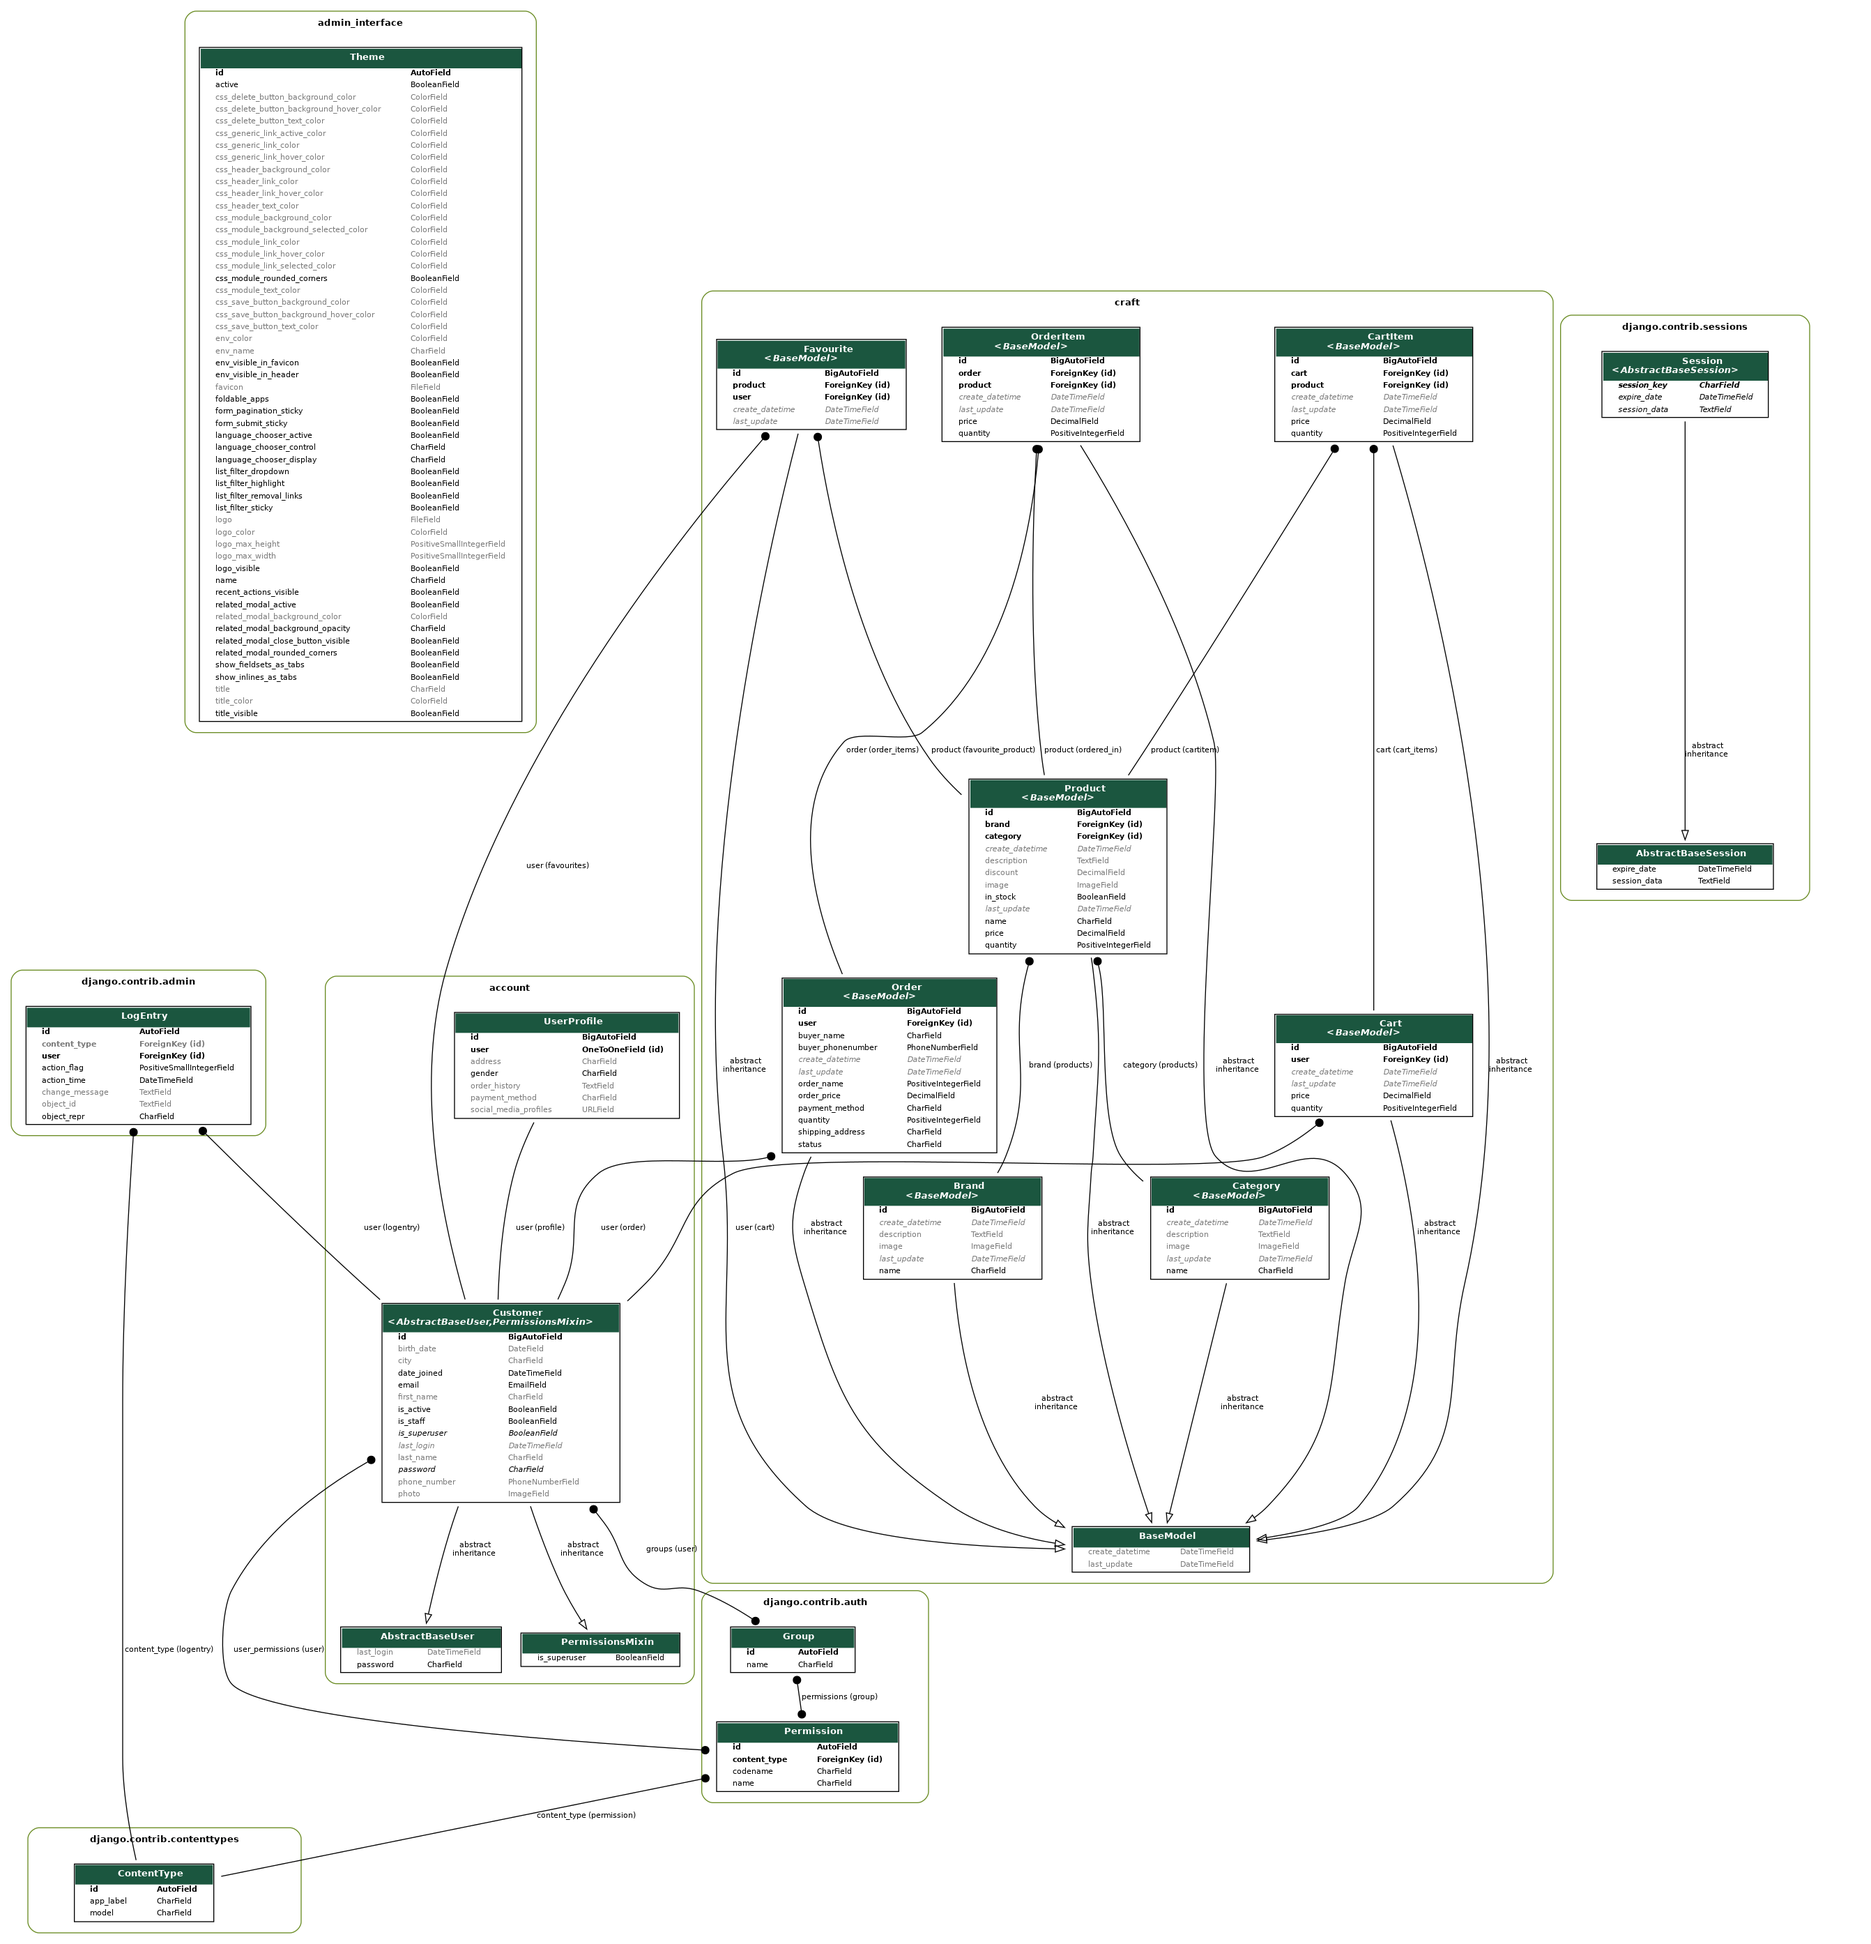
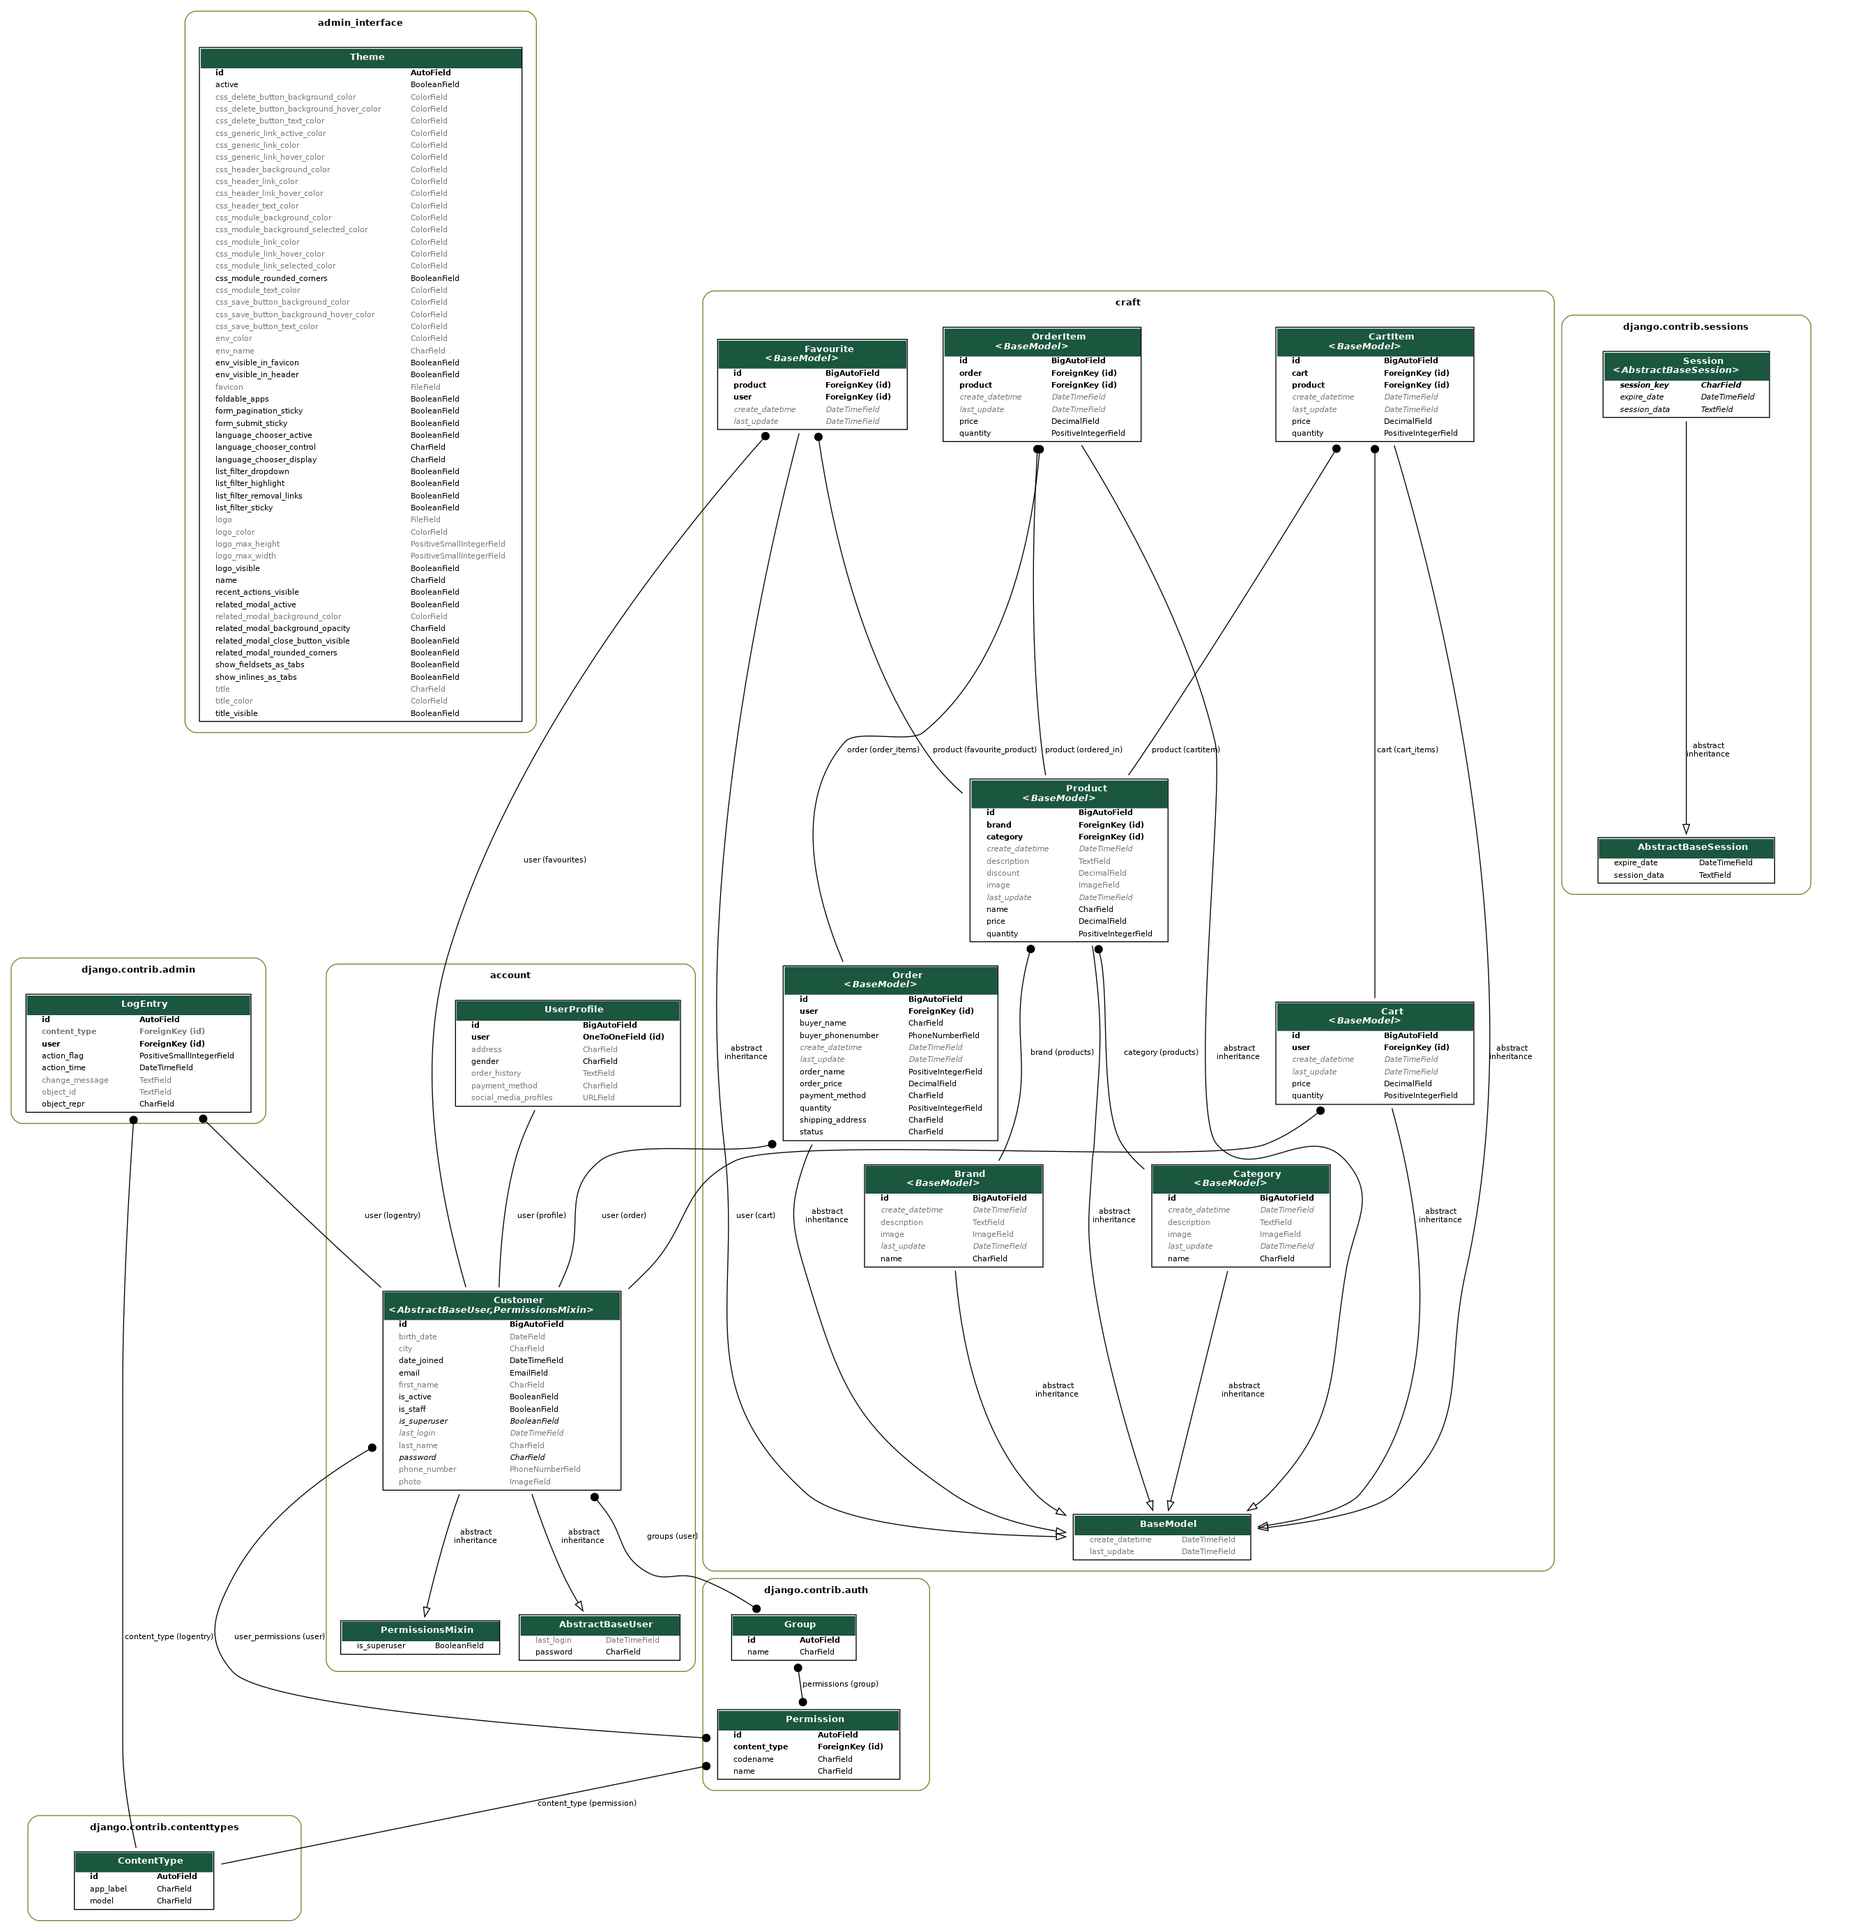
Added changes in craft views, admin, tests

diff --git a/src/templates/craft/sale.html b/src/templates/craft/sale.html
@@ -25,7 +25,7 @@
                                 <p>Price: {{ product.price }}</p>
                                 <p>Discount: {{ product.discount }}%</p>
                                 <p>New price: {{ product.price_with_discount }}</p>
-                                {% if product.in_stock %}
+                                {% if product.quantity > 0  %}
                                 <p>In stock</p>
                                 {% else %}
                                 <p>Sold out</p>
@@ -35,7 +35,7 @@
                                     {% csrf_token %}
                                     <input type="hidden" name="product" value="{{ product.pk }}">
                                     <input type="hidden" name="quantity" value="1">
-                                    {% if not product.in_stock %}
+                                    {% if product.quantity == 0 %}
                                     <input type="submit" value="Out of stock" disabled>
                                     {% else %}
                                     <input type="submit" value="Add to Cart">

diff --git a/src/templates/craft/products_list.html b/src/templates/craft/products_list.html
@@ -39,7 +39,7 @@
                             <p>{{ product.description }}</p>
                             <p>Price: {{ product.price }}</p>
                             <p>Discount: {{ product.discount }}</p>
-                            {% if product.in_stock %}
+                            {% if product.quantity > 0 %}
                             <p>In stock</p>
                             {% else %}
                             <p>Sold out</p>
@@ -50,7 +50,7 @@
                                 {% csrf_token %}
                                 <input type="hidden" name="product" value="{{ product.pk }}">
                                 <input type="hidden" name="quantity" value="1">
-                                {% if not product.in_stock %}
+                                {% if product.quantity == 0 %}
                                 <input type="submit" value="Out of stock" disabled>
                                 {% else %}
                                 <input type="submit" value="Add to Cart">

diff --git a/src/templates/craft/favourites.html b/src/templates/craft/favourites.html
@@ -23,7 +23,7 @@
                 <td>{{ favourite.product.category }}</td>
                 <td>{{ favourite.product.brand }}</td>
                 <td>{{ favourite.product.price }}</td>
-                {% if favourite.product.in_stock %}
+                {% if favourite.product.quantity > 0 %}
                 <td>In stock</td>
                 {% else %}
                 <td>Sold out</td>
@@ -31,7 +31,7 @@
                 <td>
                     <form action="{% url 'craft:add_to_cart' product_id=favourite.product.id %}" method="post">
                         {% csrf_token %}
-                        {% if not favourite.product.in_stock %}
+                        {% if favourite.product.quantity == 0 %}
                         <button class="button is-success is-small" type="submit" disabled>Add to Cart</button>
                         {% else %}
                         <button class="button is-success is-small" type="submit">Add to Cart</button>

diff --git a/src/templates/craft/product_detail.html b/src/templates/craft/product_detail.html
@@ -18,7 +18,7 @@
         <div class="column is-6">
             <p>Category: {{ product.category.name }}</p>
             <p>Brand: {{ product.brand.name }}</p>
-            {% if product.in_stock %}
+            {% if product.quantity > 0 %}
             <p>In stock</p>
             {% else %}
             <p>Sold out</p>
@@ -29,7 +29,7 @@
                 {% csrf_token %}
                 <input type="hidden" name="product" value="{{ product.pk }}">
                 <input type="hidden" name="quantity" value="1">
-                {% if not product.in_stock %}
+                {% if product.quantity == 0 %}
                 <input type="submit" value="Out of stock" disabled>
                 {% else %}
                 <input type="submit" value="Add to Cart">

diff --git a/src/templates/craft/cart.html b/src/templates/craft/cart.html
@@ -19,7 +19,7 @@
             {% for item in cart_items %}
             <tr>
                 <td>{{ item.product.name }}</td>
-                <td>{{ item.price }}</td>
+                <td>{{ item.product.price }}</td>
                 <td>
                     <a href="{% url 'craft:product_detail' item.product.id %}" class="button is-info is-outlined">
                         <span class="icon is-small">

diff --git a/src/craft/models.py b/src/craft/models.py
@@ -63,7 +63,6 @@ class Product(BaseModel):
     image = models.ImageField(upload_to="product/", blank=True, null=True)
     price = models.DecimalField(max_digits=8, decimal_places=2)
     discount = models.DecimalField(max_digits=5, decimal_places=2, blank=True, null=True)
-    in_stock = models.BooleanField(default=True)
     category = models.ForeignKey(to="craft.Category", related_name="products", on_delete=models.CASCADE)
     brand = models.ForeignKey(to="craft.Brand", related_name="products", on_delete=models.CASCADE)
     quantity = models.PositiveIntegerField(default=0, null=True)
@@ -92,10 +91,9 @@ class Product(BaseModel):
                 description=faker.sentence(),
                 price=faker.pydecimal(left_digits=2, right_digits=2, positive=True),
                 discount=random.randint(0, 25),
-                in_stock=faker.boolean(),
                 category=Category.objects.order_by("?").first(),
                 brand=Brand.objects.order_by("?").first(),
-                quantity=random.randint(1, 100),
+                quantity=random.randint(0, 100),
             )
 
 

diff --git a/src/craft/views.py b/src/craft/views.py
@@ -93,7 +93,7 @@ class CartAddProduct(View):
             return HttpResponseRedirect(reverse("core:login"))
         product_id = kwargs.get("product_id")
         cart, _ = Cart.objects.get_or_create(user=request.user)
-        product = get_object_or_404(Product, id=product_id, in_stock=True)
+        product = get_object_or_404(Product, id=product_id)
         cart_item, created = CartItem.objects.get_or_create(
             cart=cart, product=product, defaults={"price": product.price}
         )

diff --git a/src/craft/admin.py b/src/craft/admin.py
@@ -30,7 +30,7 @@ class BrandAdmin(admin.ModelAdmin):
 
 @admin.register(Product)
 class ProductAdmin(admin.ModelAdmin):
-    list_display = ("name", "price", "in_stock", "discount", "category", "brand", "quantity")
+    list_display = ("name", "price", "discount", "category", "brand", "quantity")
     list_filter = ("category", "brand")
     search_fields = ("name__istartswith",)
     actions = ["set_discount_10", "set_discount_0"]

diff --git a/src/craft/migrations/0003_remove_product_in_stock.py b/src/craft/migrations/0003_remove_product_in_stock.py
@@ -1,0 +1,16 @@
+# Generated by Django 4.2 on 2023-04-30 15:34
+
+from django.db import migrations
+
+
+class Migration(migrations.Migration):
+    dependencies = [
+        ("craft", "0002_alter_order_options"),
+    ]
+
+    operations = [
+        migrations.RemoveField(
+            model_name="product",
+            name="in_stock",
+        ),
+    ]

diff --git a/src/craft/tests/tests_models.py b/src/craft/tests/tests_models.py
@@ -13,7 +13,6 @@ class TestCraftModel(TestCase):
             description="Test Product Description",
             price=19.99,
             discount=10.00,
-            in_stock=True,
             category=self.category,
             brand=self.brand,
             quantity=50,
